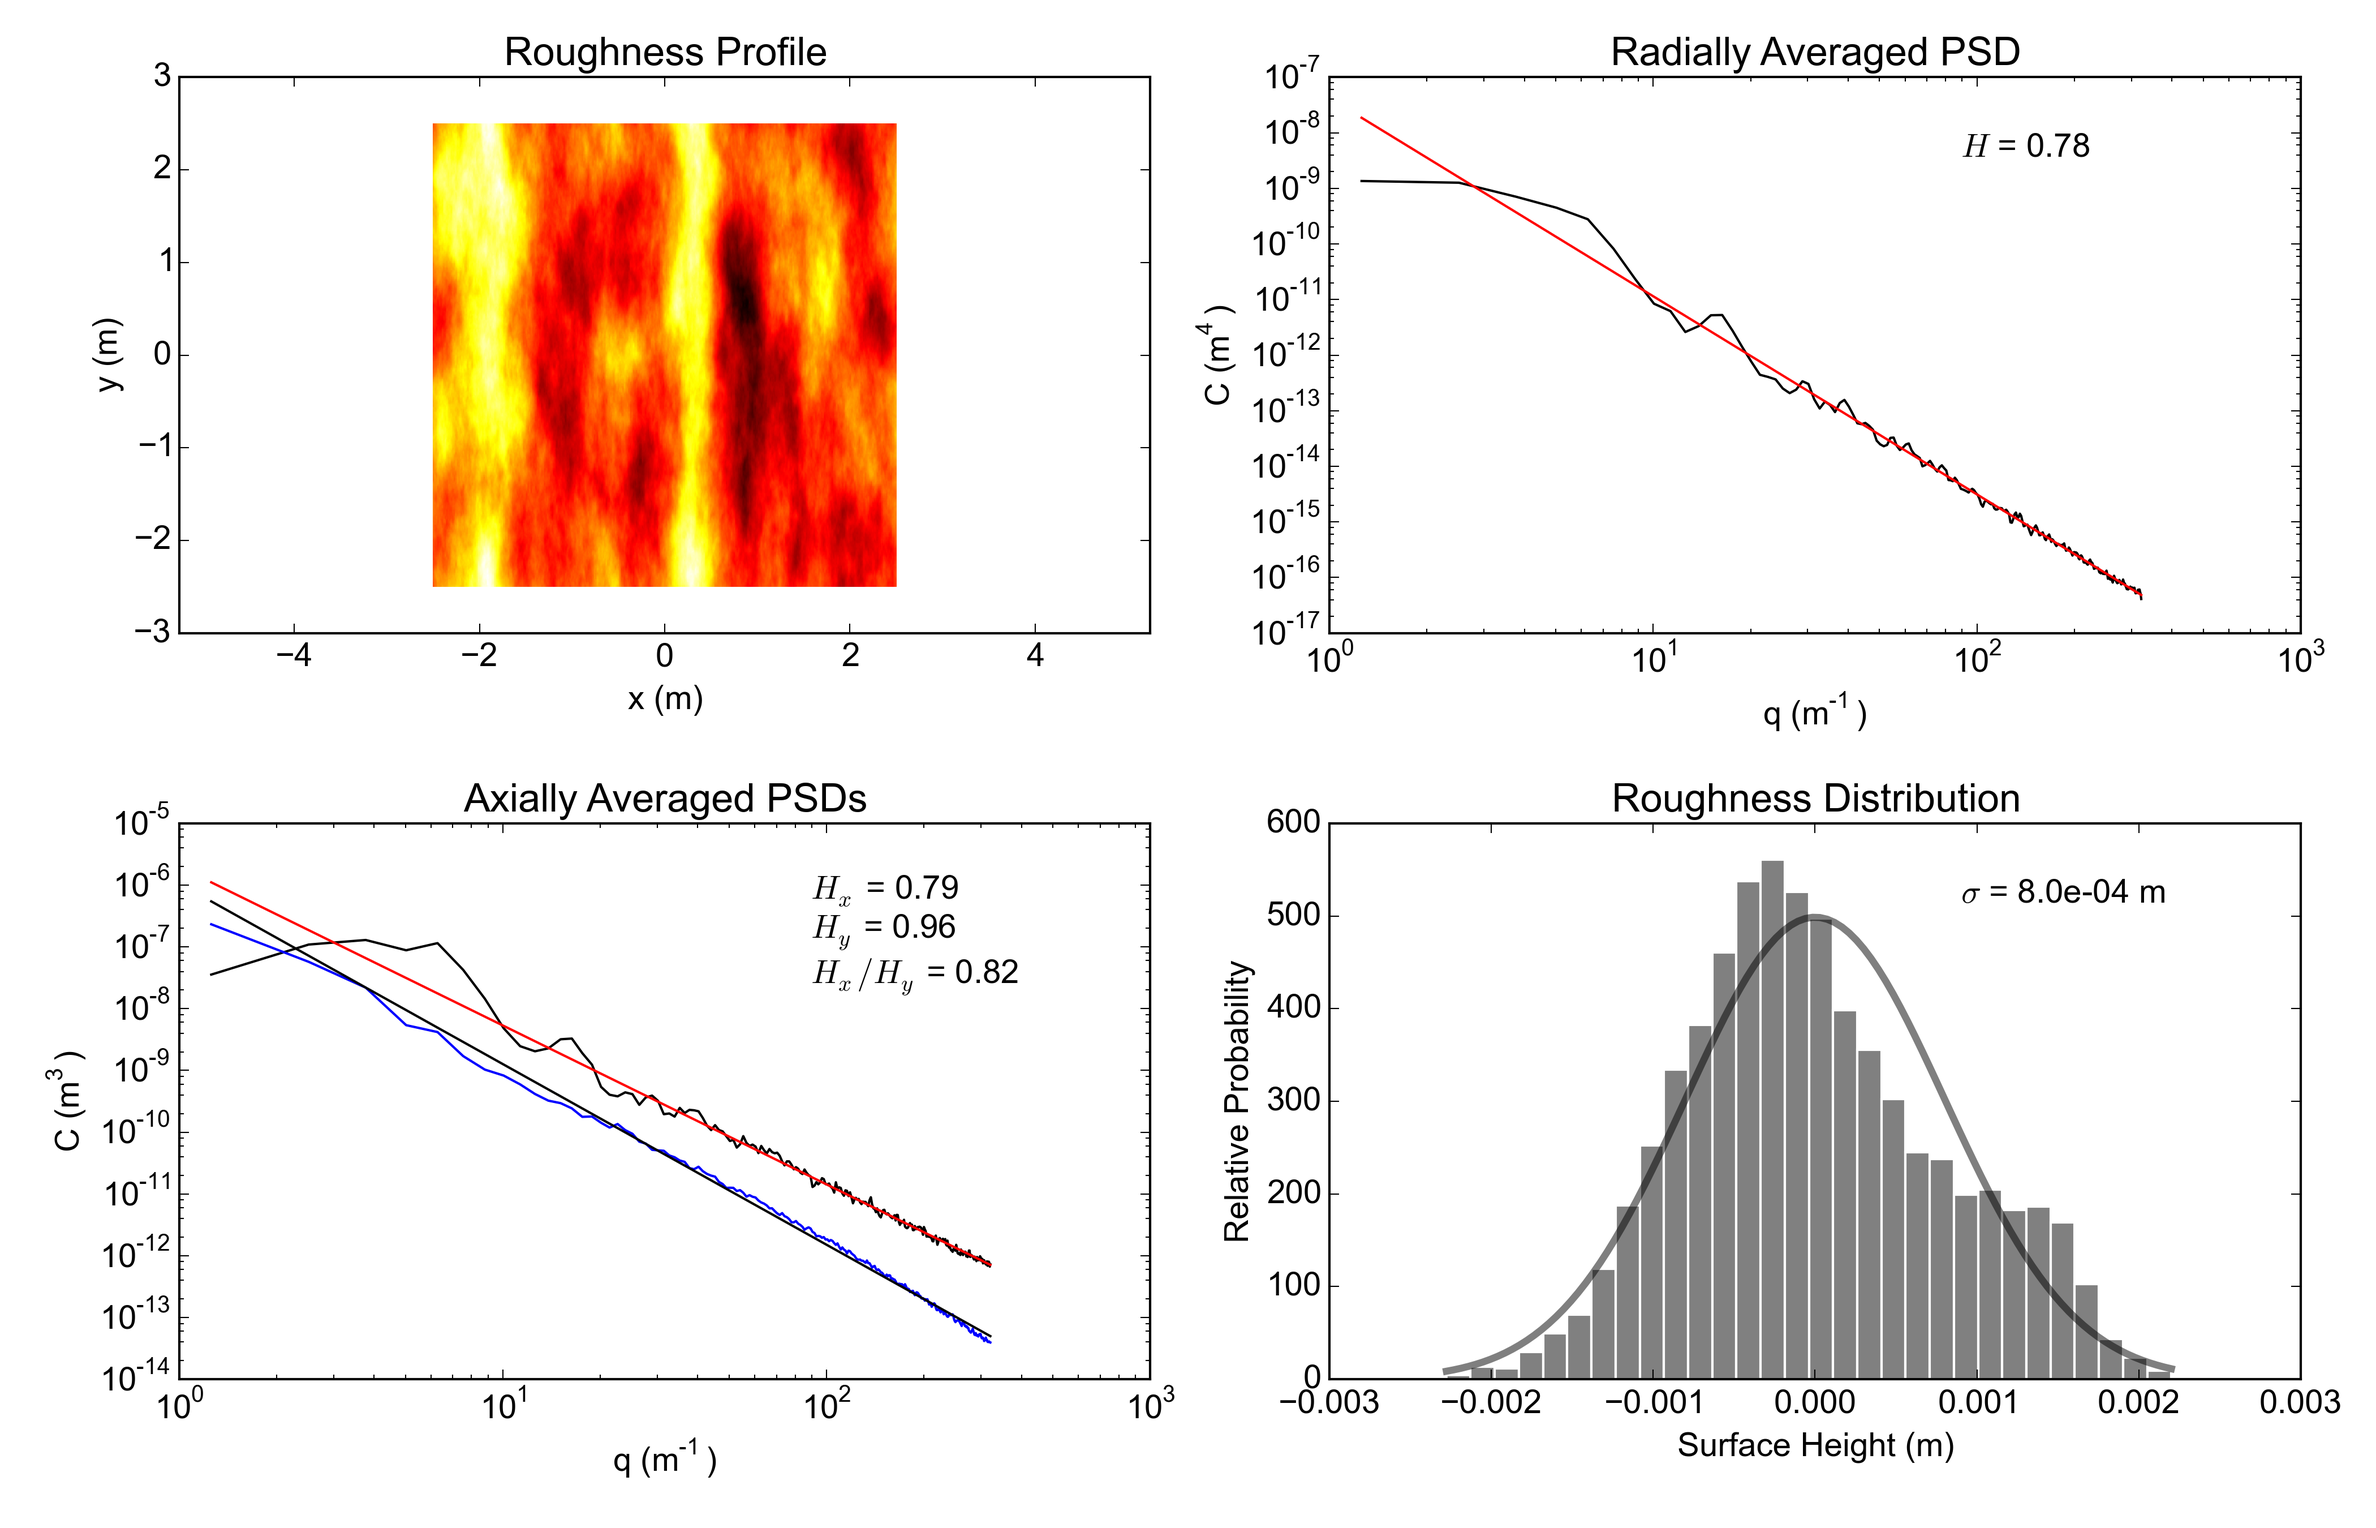
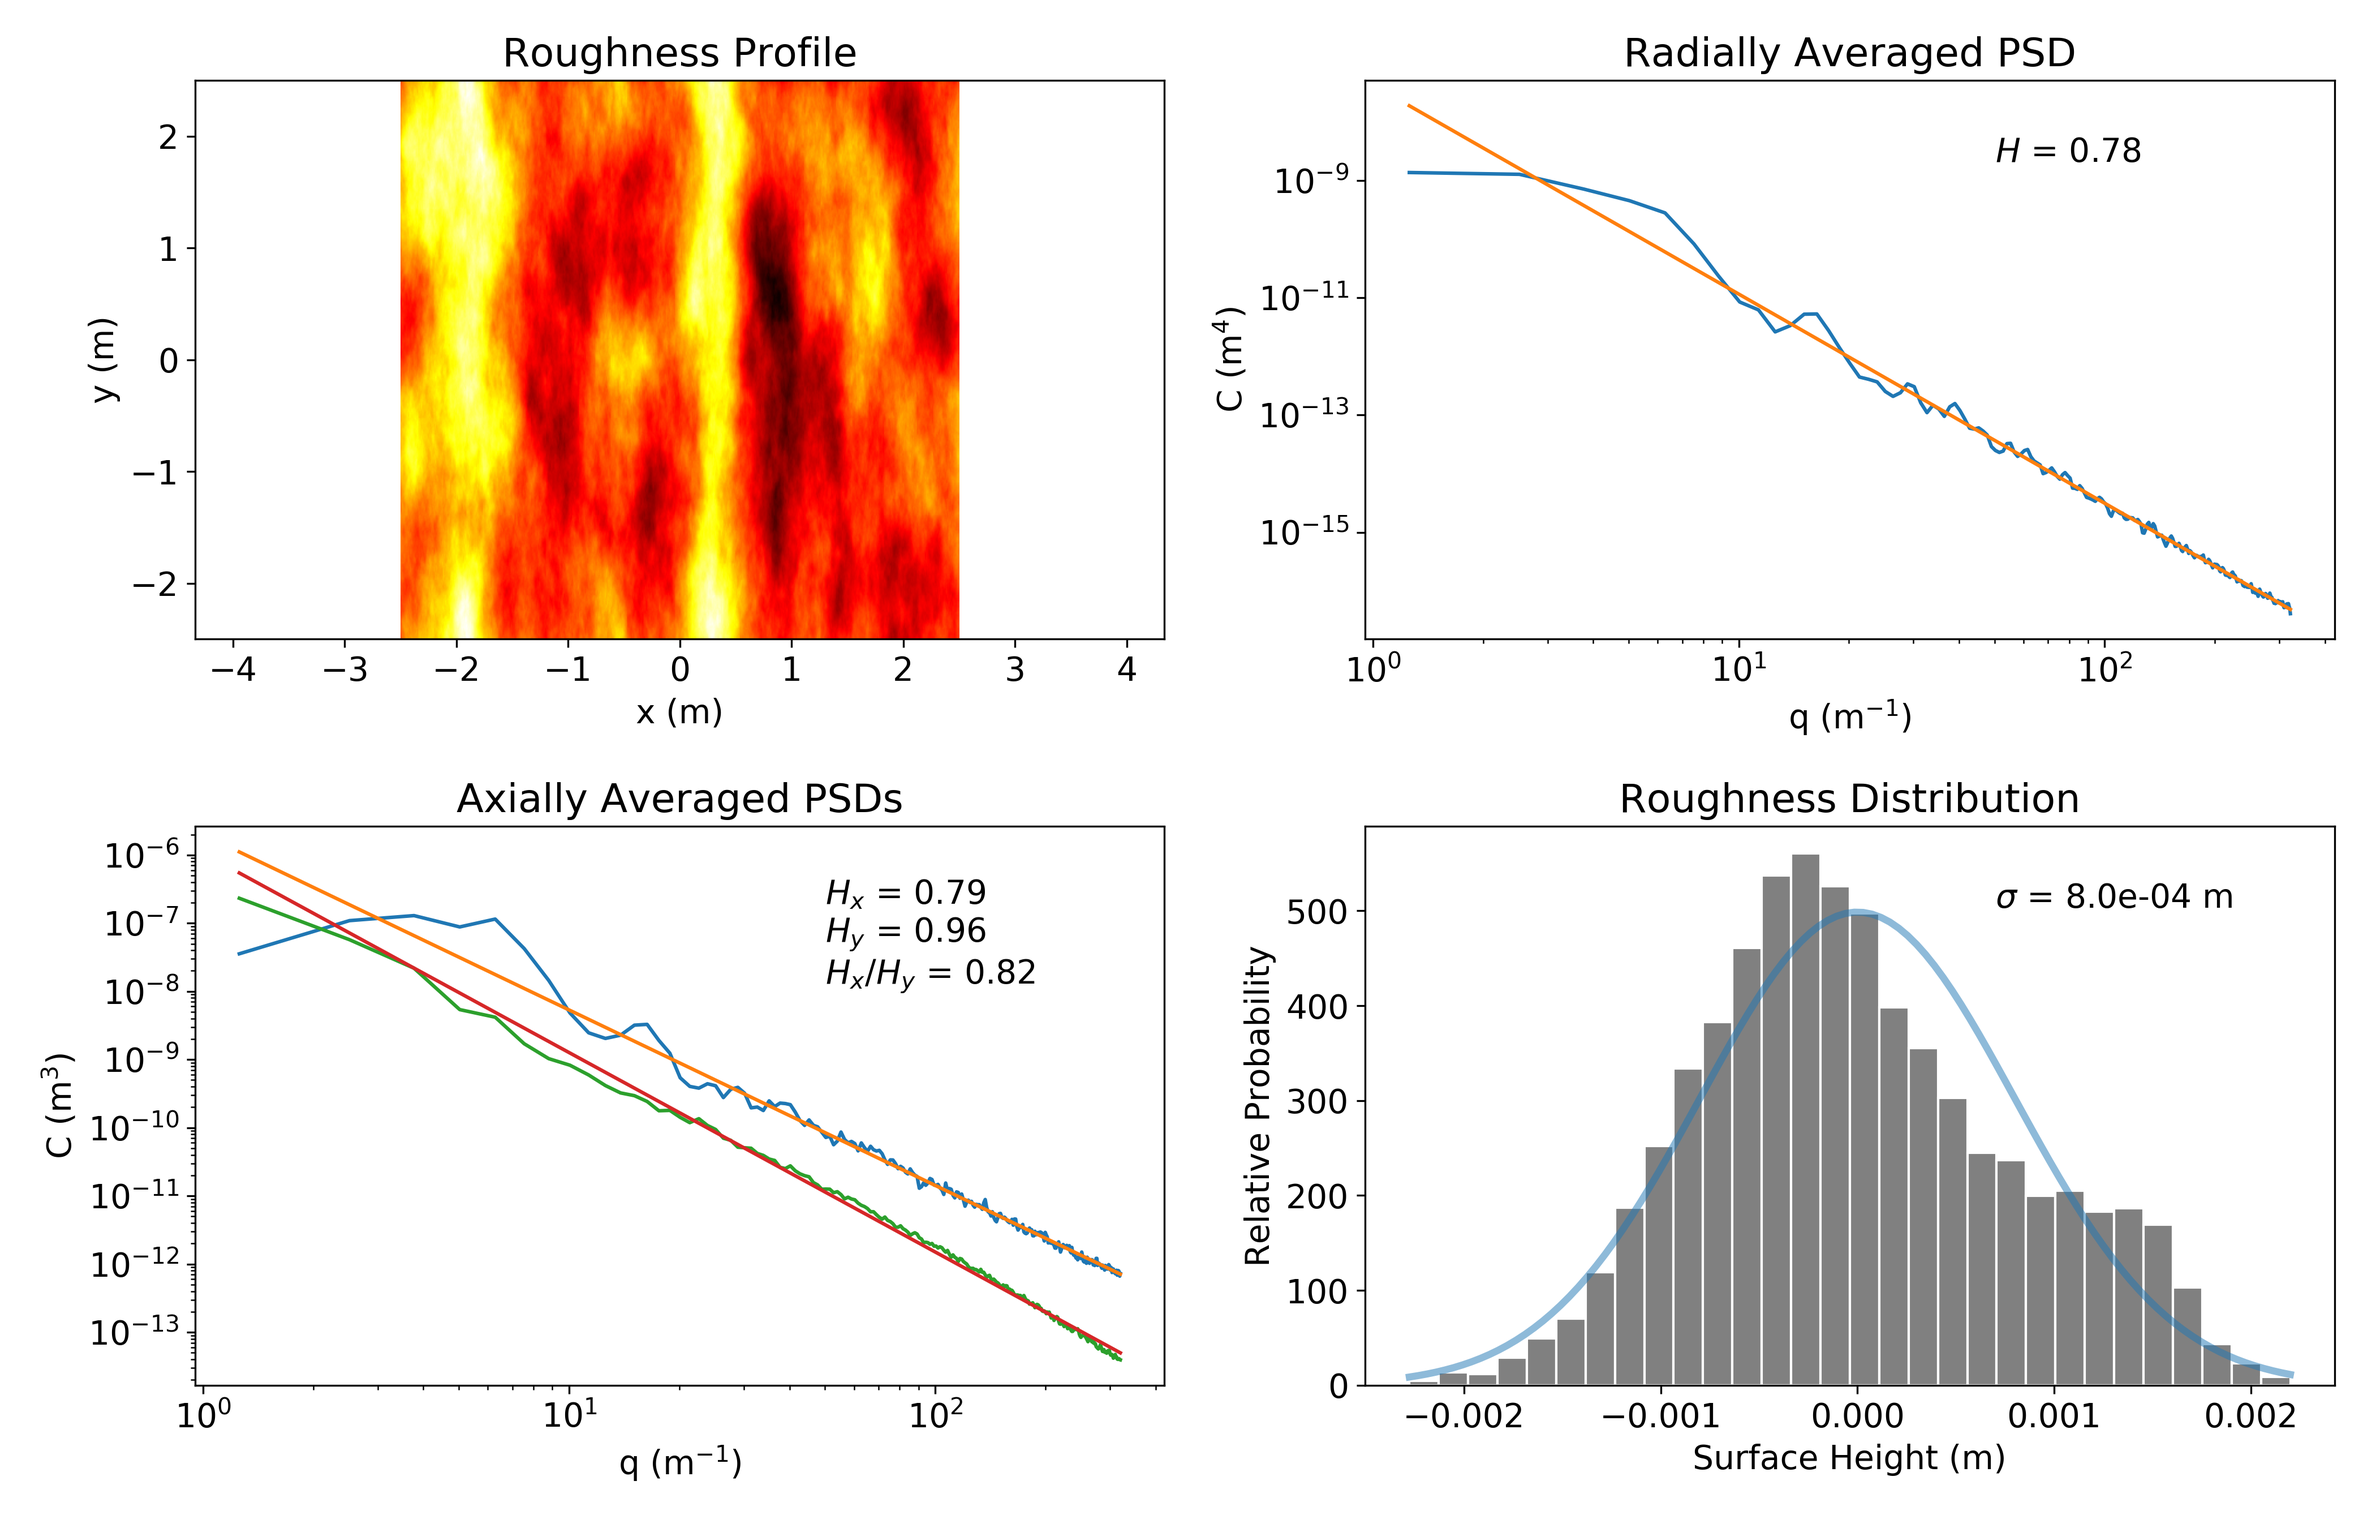
some python 3.6 glitches

diff --git a/examples/example_analysis.py b/examples/example_analysis.py
@@ -1,54 +1,55 @@
+import sys
 import numpy as np
-import surfplot as sp
-import surfanalysis as sa
+import brown.surface as bs
+import brown.analyse as ba
 import matplotlib.pyplot as plt
+import brown.plot as bp
 
 
-if __name__ == '__main__':
-    fnames = ['isotropic.txt', 'anisotropic.txt']
-    dxys = [5./2**9 for i in range(len(fnames))] # sample spacing
-    window = True
-    length_unit = 'm'
+fnames = ['../doc/isotropic.txt', '../doc/anisotropic.txt']
+dxys = [5./2**9] * len(fnames) # sample spacing
+window = True
+length_unit = 'm'
 
-    for dxy, fname in zip(dxys, fnames):
-        h = np.loadtxt(fname)        
+for dxy, fname in zip(dxys, fnames):
+    h = np.loadtxt(fname)        
 
-        fig, axes = plt.subplots(2, 2, figsize=(14,9))
-        xtext, ytext = 0.65, 0.9
+    fig, axes = plt.subplots(2, 2, figsize=(14,9))
+    xtext, ytext = 0.65, 0.9
 
-        ax = axes[0,0]
-        ax.set_title('Roughness Profile') 
-        sp.roughness(ax, h, dxy, length_unit)
+    ax = axes[0,0]
+    ax.set_title('Roughness Profile') 
+    bp.roughness(ax, h, dxy, length_unit)
 
-        ax = axes[0,1]
-        ax.set_title('Radially Averaged PSD') 
-        f, C = sa.radially_averaged_psd(h, dxy, window)
-        pref, hurst = sa.self_affine_psd_fit(f, C)
-        sp.roughness_spectrum(ax, f, C, length_unit)
-        sp.roughness_spectrum(ax, f, sa.self_affine_psd(f, pref, hurst), length_unit)
-        ax.text(xtext, ytext, ''.join(['$\mathit{H}$',' = {:.2f}'.format(hurst)]), transform=ax.transAxes, va='top')
+    ax = axes[0,1]
+    ax.set_title('Radially Averaged PSD') 
+    f, C = ba.radially_averaged_psd(h, dxy, window)
+    pref, hurst = ba.self_affine_psd_fit(f, C)
+    bp.roughness_spectrum(ax, f, C, length_unit)
+    bp.roughness_spectrum(ax, f, ba.self_affine_psd(f, pref, hurst), length_unit)
+    ax.text(xtext, ytext, ''.join(['$\mathit{H}$',' = {:.2f}'.format(hurst)]), transform=ax.transAxes, va='top')
 
-        ax = axes[1,0]
-        ax.set_title('Axially Averaged PSDs') 
-        fx, Cx = sa.axis_averaged_psd(h, dxy, window, 0)
-        fy, Cy = sa.axis_averaged_psd(h, dxy, window, 1)
-        prefy, hursty = sa.self_affine_psd_fit(fy, Cy, onedim=True)
-        prefx, hurstx = sa.self_affine_psd_fit(fx, Cx, onedim=True)
-        sp.roughness_spectrum(ax, fx, Cx, length_unit, onedim=True)
-        sp.roughness_spectrum(ax, fx, sa.self_affine_psd(fx, prefx, hurstx, True), length_unit, onedim=True)
-        
-        sp.roughness_spectrum(ax, fy, Cy, length_unit, onedim=True)
-        sp.roughness_spectrum(ax, fy, sa.self_affine_psd(fy, prefy, hursty, True), length_unit, onedim=True)
-        ax.text(xtext, ytext, ''.join(['$\mathit{H_x}$',' = {:.2f}'.format(hurstx), '\n', 
-                                   '$\mathit{H_y}$',' = {:.2f}'.format(hursty), '\n', 
-                                   '$\mathit{H_x/H_y}$',' = {:.2f}'.format(hurstx/hursty)]), va='top', transform=ax.transAxes)
-      
-        ax = axes[1,1]
-        ax.set_title('Roughness Distribution') 
-        sp.roughness_histogram(ax, h, length_unit)
-        ax.text(xtext, ytext, ''.join(['$\mathit{\sigma}$',' = {:.1e} '.format(np.std(h)), length_unit]), transform=ax.transAxes, va='top') # biased estimator
+    ax = axes[1,0]
+    ax.set_title('Axially Averaged PSDs') 
+    fx, Cx = ba.axis_averaged_psd(h, dxy, window, 0)
+    fy, Cy = ba.axis_averaged_psd(h, dxy, window, 1)
+    prefy, hursty = ba.self_affine_psd_fit(fy, Cy, onedim=True)
+    prefx, hurstx = ba.self_affine_psd_fit(fx, Cx, onedim=True)
+    bp.roughness_spectrum(ax, fx, Cx, length_unit, onedim=True)
+    bp.roughness_spectrum(ax, fx, ba.self_affine_psd(fx, prefx, hurstx, True), length_unit, onedim=True)
+    
+    bp.roughness_spectrum(ax, fy, Cy, length_unit, onedim=True)
+    bp.roughness_spectrum(ax, fy, ba.self_affine_psd(fy, prefy, hursty, True), length_unit, onedim=True)
+    ax.text(xtext, ytext, ''.join(['$\mathit{H_x}$',' = {:.2f}'.format(hurstx), '\n', 
+                                '$\mathit{H_y}$',' = {:.2f}'.format(hursty), '\n', 
+                                '$\mathit{H_x/H_y}$',' = {:.2f}'.format(hurstx/hursty)]), va='top', transform=ax.transAxes)
+    
+    ax = axes[1,1]
+    ax.set_title('Roughness Distribution') 
+    bp.roughness_histogram(ax, h, length_unit)
+    ax.text(xtext, ytext, ''.join(['$\mathit{\sigma}$',' = {:.1e} '.format(np.std(h)), length_unit]), transform=ax.transAxes, va='top') # biased estimator
 
-        fname = fname.replace('.txt', '.png')
-        plt.tight_layout()
-        plt.savefig(fname)
-        plt.show()
+    fname = fname.replace('txt', 'png')
+    plt.tight_layout()
+    plt.savefig(fname)
+    plt.show()

diff --git a/brown/analyse.py b/brown/analyse.py
@@ -61,7 +61,7 @@ def radially_averaged_psd(h, dxy, window=True):
     """
     h = np.copy(h)
     N = h.shape[0]
-    N_center = N/2
+    N_center = int(N/2)
     L = N*dxy
     q_L = 2*np.pi/L
 
@@ -73,8 +73,8 @@ def radially_averaged_psd(h, dxy, window=True):
     C_q = ((2*np.pi)**2/L**2) * np.abs(h_a_q)**2      # Equ. C.6
 
     # first quadrant of FFT, rest follows in periodic averaging
-    m = range(1,N_center+1)         # frequency multiplier
-    mxy = range(0,N_center)         # grid indices
+    m = np.array(range(1,N_center+1))         # frequency multiplier
+    mxy = np.array(range(0,N_center))         # grid indices
     q = np.array(m)*q_L             # frequencies
     xv, yv = np.meshgrid(mxy, mxy)  # grid index meshes
     mxyabs = np.sqrt(xv**2+yv**2)   # grid index vector lengths
@@ -120,8 +120,8 @@ def axis_averaged_psd(h, dx, window=True, axis=0):
 
     # freqs
     q = np.fft.fftfreq(N, dx)*2*np.pi
-    q = q[1:N/2]
+    q = q[1:int(N/2)]
 
     # avg
-    C = np.average(powers, axis=0)[1:N/2]
+    C = np.average(powers, axis=0)[1:int(N/2)]
     return q, C

diff --git a/brown/plot.py b/brown/plot.py
@@ -1,12 +1,8 @@
 import numpy as np
 from matplotlib import rcParams
 import scipy.stats as scst
-rcParams['font.family'] = 'sans-serif'
-rcParams['mathtext.default'] = 'regular'
-rcParams['font.sans-serif'] = ['Arial']
 rcParams['font.size'] = 14
 rcParams['legend.fontsize'] = 10
-rcParams['axes.color_cycle'] = ['black', 'red', 'blue']
 rcParams['savefig.dpi'] = 300
 rcParams['legend.loc'] = 'upper right'
 rcParams['image.cmap'] = 'hot'

diff --git a/setup.py b/setup.py
@@ -8,7 +8,8 @@ setup(name='Brown',
       author_email='plang@slb.com',
       download_url='https://github.com/plang85/rough_surfaces.git',
       install_requires=['numpy>=1.9.1',
-                        'scipy>=0.14'],
+                        'scipy>=0.14',
+                        'matplotlib'],
       extras_require={
           'test': ['pytest',
                    'pytest-pep8',
